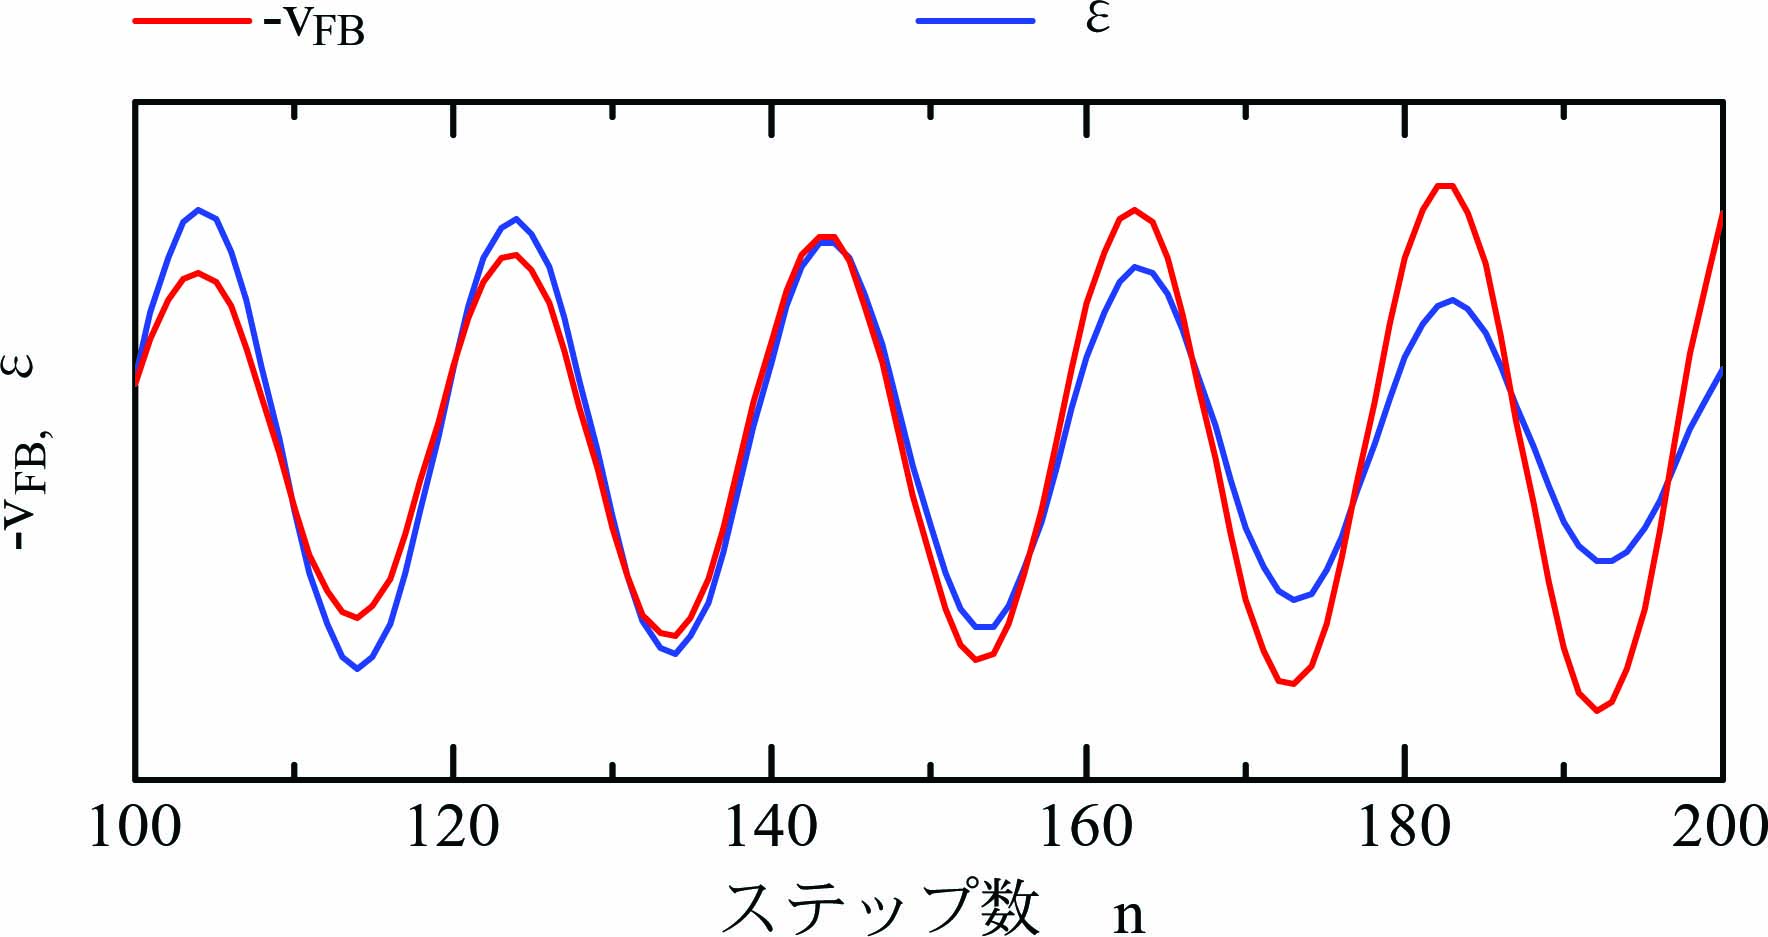
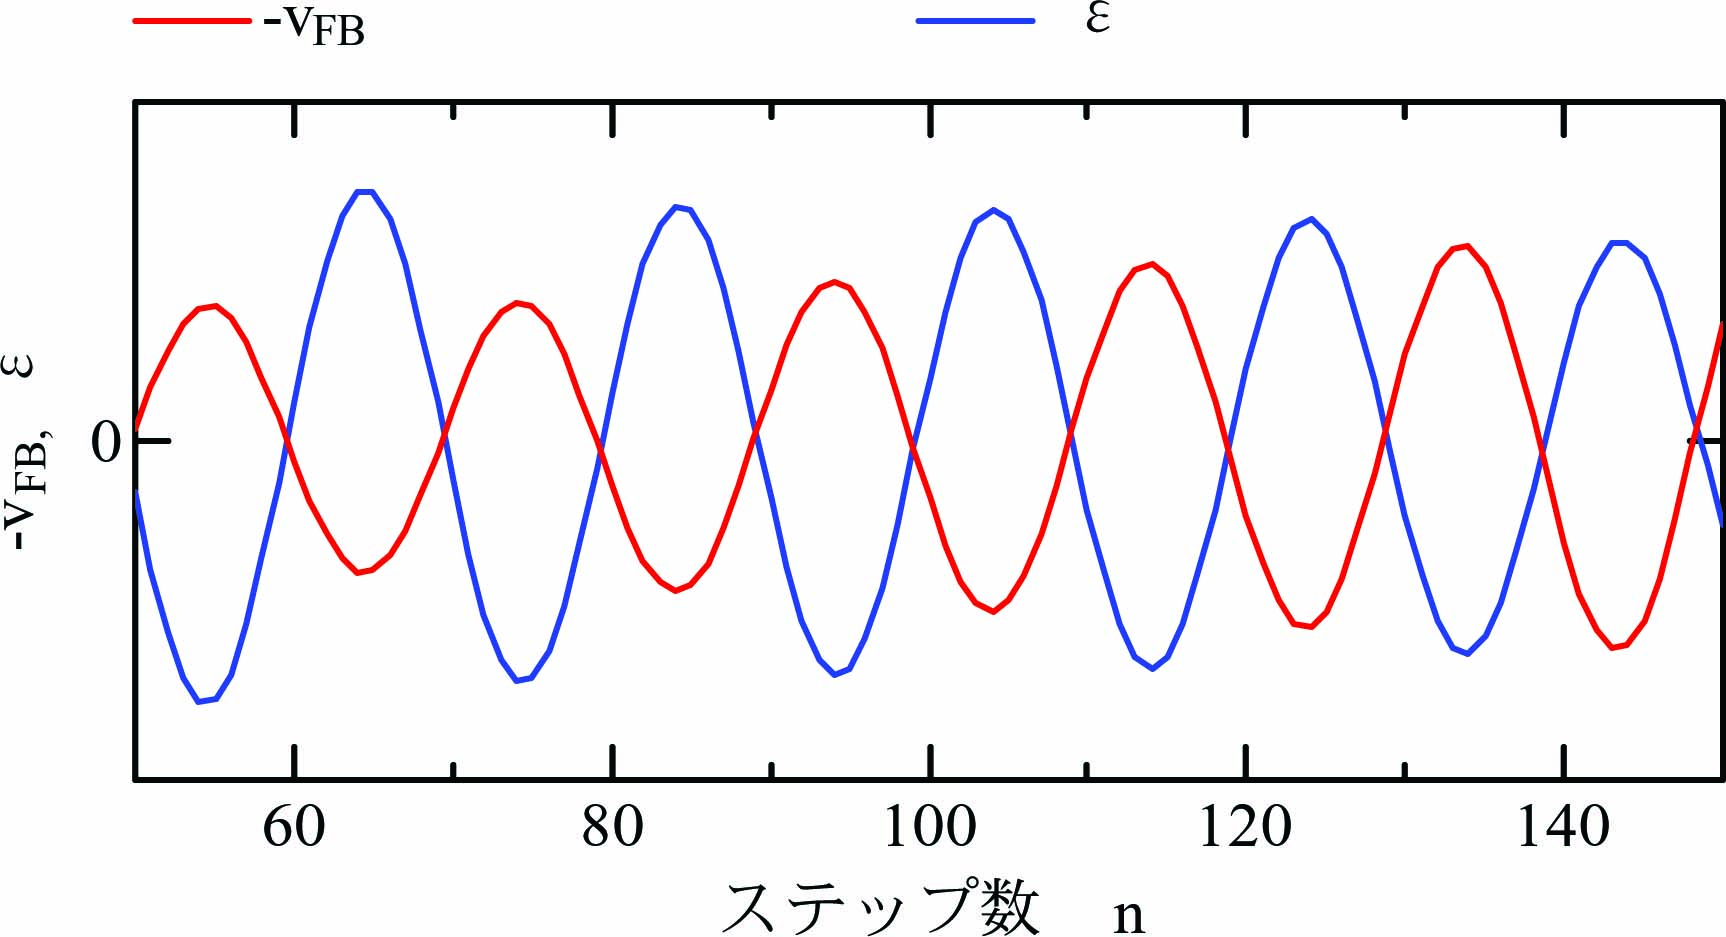
Add files via upload

diff --git a/index.html b/index.html
@@ -20,72 +20,87 @@
   <body>
     <h3>モデル規範適応制御の数値解析(適応制御則の動作メカニズム)</h3>
 
+    <h3>§モデル規範適応制御</h3>
     <p><a href="https://aoyamakohbo.github.io/AdaptContVib1D/">モデル規範適応制御の数値解析(数値実験)</a>
-      では超安定論から導いた適応制御則が有効に動作することを確認しています。
-      ここではどのようなメカニズムで適応制御が実現されるのかを確認します。</p>
+    では、下記の設定に対して数値実験を実施し、超安定論から導いた適応制御則が有効に動作することを確認しています。</p>
 
     <p>適応制御対象：</p>
     \begin{align}
     \ddot x + a\frac{\eta}{\hat\eta}\dot x + b\frac{\eta}{\hat\eta}(x - u) = 0 \label{eq:SysEqn2}
     \end{align}
-    <p> ここに、\(x_M\)は制御対象の変位です。係数\(a=25.12\)、\(b=3943\)です。</p>
+    <p> ここに、\(x_M\)は制御対象の変位です。係数\(a=25.12\)、\(b=3943\)、\(\hat{\eta}=1\)です。</p>
 
     <p>規範モデル：</p>
     \begin{align}
     \ddot x_M + a\dot x_M + b(x_M - u)= 0 \label{eq:MdlEqn}
     \end{align}
 
-    <p> ここに、\(x_M\)は規範モデルの変位です。</p>
+  <p> ここに、\(x_M\)は規範モデルの変位です。</p>
 
+  <h3>§適応制御則</h3>
+  <p>ここではどのようなメカニズムで適応制御が実現されるのかを確認します。適応制御則は次式で与えられます。</p>
+    \begin{align}
+      \dot{\hat{\eta}} = \alpha \frac{\{a \dot x + b (x - u)\}\varepsilon}{\hat\eta},~~~\varepsilon = e + c\dot e,~~~e = x_M - x,~~~c = \frac{2}{25.12}.\label{eq:AdaptRule0}
+    \end{align}
+  <p><a href="https://aoyamakohbo.github.io/AdaptContVib1D/">モデル規範適応制御の数値解析(数値実験)</a>
+    では、適応制御則\eqref{eq:AdaptRule0}により、\(\eta/\hat{\eta}=1\)に収束することを確認しています。</p>
+
+  <p>適応制御則の動作メカニズムを理解するために、</p>  
     \begin{align}
       v_{FB} = -a\dot x - b(x - u) \label{eq:vFB}
     \end{align}
 
-  <p>適応制御則：</p>
+  <p>とすると、適応制御則は次式となります。</p>
   \begin{align}
-   \dot{\hat{\eta}} = -\alpha \frac{v_{FB}}{\hat\eta}\varepsilon\label{eq:AdaptRule}
-  \end{align}
-
-  \begin{align}
-    \varepsilon = e + c\dot e,~~~e = x_M - x,~~~c = \frac{2}{25.12} . \label{eq:ExdEqn}
+   \dot{\hat{\eta}} = -\alpha \frac{v_{FB}}{\hat\eta}\varepsilon \label{eq:AdaptRule}
   \end{align}
  
-  <p>\(\eta=0.5.2.0\)の場合について\(v_{FB}\)と\(\varepsilon\)の動作を観察します。</p>
+  <h3>§数値実験結果</h3>
+ <p>ここでは、
+    適応制御対象\eqref{eq:SysEqn2}の\(\eta=0.5 (< \hat{\eta})\)と\(\eta=2.0 (> \hat{\eta})\)の場合について、
+    \(v_{FB}\)と\(\varepsilon\)の動作を観察します。</p>
 
-    <p>まず、下図は\(\eta=0.5\)の場合について\(-v_{FB}\)と\(\varepsilon\)を描画したグラフです。
+ <p>まず、下図は\(\eta=0.5\)の場合について\(-v_{FB}\)と\(\varepsilon\)を描画したグラフです。
+    振幅は比較できるように調整しています。\(-v_{FB}\)と\(\varepsilon\)の位相がほぼ反転していることを確認できます。</p>
+  <img src="v_FB_ε050.jpg" width=500px>
+    
+  <p>下図は\(-v_{FB}\)と\(\varepsilon\)の積\(-v_{FB}\varepsilon\)を描画したグラフです。
+      ただし、グラフには係数\(\alpha\)が掛けてあります。
+      \(-v_{FB}\)と\(\varepsilon\)の位相が反転しているので、
+      両者を掛け合わせた\(-v_{FB}\varepsilon\)はマイナスになります。
+      したがって、\(-v_{FB}\)\(\varepsilon\)のグラフはマイナス側(下側)にシフトしています。
+      すなわち、式\eqref{eq:AdaptRule}で表される\(\hat{\eta}\)の時間増分\(\dot{\hat{\eta}}\)は負(\(\dot{\hat{\eta}} < 0\))となっています。</p>    
+  <img src="v_FB×ε050.jpg" width=500px>
+    
+  <p>次に、下図は\(\eta=2.0\)の場合について\(-v_{FB}\)と\(\varepsilon\)を描画したグラフです。
       振幅は比較できるように調整しています。
       \(-v_{FB}\)と\(\varepsilon\)の位相がかなり揃っていることを確認できます。</p>
-    <img src="v_FB_ε050.jpg" width=500px>
-    
-    <p>下図は\(-v_{FB}\)と\(\varepsilon\)の積\(-v_{FB}\varepsilon\)を描画したグラフです。
+  <img src="v_FB_ε200.jpg" width=500px>
+
+  <p>下図は\(-v_{FB}\)と\(\varepsilon\)の積\(-v_{FB}\varepsilon\)を描画したグラフです。
       \(-v_{FB}\)と\(\varepsilon\)の位相が揃っているので、
-      \(-v_{FB}\varepsilon\)はマイナス側(下側)にシフトしています。
-      すなわち、式\eqref{eq:AdaptRule}で表される\(\eta\)の時間増分\(\dot{\hat{\eta}} < 0\)となっています。</p>    
-    <img src="v_FB×ε050.jpg" width=500px>
-    
-     <p>まず、下図は\(\eta=2.0\)の場合について\(-v_{FB}\)と\(\varepsilon\)を描画したグラフです。
-      振幅は比較できるように調整しています。
-      \(-v_{FB}\)と\(\varepsilon\)の位相がかなりずれていることを確認できます。</p>
-    <img src="v_FB_ε200.jpg" width=500px>
+      両者を掛け合わせた\(-v_{FB}\varepsilon\)はプラスになります。
+      したがって、\(-v_{FB}\varepsilon\)はプラス側(上側)にシフトしています。
+      すなわち、式\eqref{eq:AdaptRule}で表される\(\hat{\eta}\)の時間増分\(\dot{\hat{\eta}}\)は正(\(\dot{\hat{\eta}} > 0\))となっています。</p>       
+  <img src="v_FB×ε200.jpg" width=500px>
 
-     <p>下図は\(-v_{FB}\)と\(\varepsilon\)の積\(-v_{FB}\varepsilon\)を描画したグラフです。
-      \(-v_{FB}\)と\(\varepsilon\)の位相がずれているので、
-      \(-v_{FB}\varepsilon\)はプラス側(上側)にシフトしています。
-      すなわち、式\eqref{eq:AdaptRule}で表される\(\eta\)の時間増分\(\dot{\hat{\eta}} > 0\)となっています。</p>       
-    <img src="v_FB×ε200.jpg" width=500px>
+  <p>下図は\(\eta=0.5(< \hat{\eta})\)と\(\eta=2.0(> \hat{\eta})\)の場合について積\(-v_{FB}\varepsilon\)を描画したグラフです。</p>
+  <p>\(\eta=0.5\)(赤線)では\(-v_{FB}\varepsilon < 0\)(負)となり、
+      \(\hat{\eta}\)の時間増分\(\dot{\hat{\eta}} < 0\)(負)となるので\(\hat{\eta}\)は減少します。</p>
+   <p>\(\eta=2.0\)(青線)では\(-v_{FB}\varepsilon >0\)(正)となり、
+      \(\hat{\eta}\)の時間増分\(\dot{\hat{\eta}} > 0\)(正)となるので\(\hat{\eta}\)は増加します。</p>
+  <img src="v_FB_ε200_050.jpg" width=500px>
 
-     <p>下図は\(\eta=0.5\)と\(\eta=2.0\)の場合について積\(-v_{FB}\varepsilon\)を描画したグラフです。
-      \(\eta=0.5\)では\(-v_{FB}\varepsilon < 0\)となり、\(\eta\)の時間増分\(\dot \eta < 0\)、\(\eta=2.0\)では\(-v_{FB}\varepsilon >0\)
-      、\(\eta\)の時間増分\(\dot \eta > 0\)となっていることを確認できます。</p>
-    <img src="v_FB_ε200_050.jpg" width=500px>
+  <p>\(\hat{\eta} > \eta\)の場合は\(\dot{\hat{\eta}}\)は負となり、
+      適応制御則\eqref{eq:AdaptRule}は\(\hat\eta\)を減少させるように動作して\(-v_{FB}\varepsilon\)、
+      すなわち、\(\dot{\hat{\eta}}\)は\(0\)に収束しています。</p>
+  <p>\(\hat \eta < \eta\)の場合は\(\dot{\hat \eta}\)は正となり、
+      適応制御則\eqref{eq:AdaptRule}は\(\hat\eta\)を増加させるように動作して\(-v_{FB}\varepsilon\)、
+      すなわち、\(\dot{\hat{\eta}}\)は\(0\)に収束しています。</p>
+  <p>以上のことから、適応制御則\eqref{eq:AdaptRule}は\(\hat\eta\)に対してネガティブフィードバックとして動作し、
+    \(\eta/\hat{\eta}=1\)に収束します。</p>
 
-    <p>\(\hat{\eta} > \eta\)の場合は\(\dot{\hat{\eta}}\)は負となり、
-      適応制御則\eqref{eq:AdaptRule}は\(\hat\eta\)を減少させるように動作します。
-      逆に\(\hat \eta < \eta\)の場合は\(\dot{\hat \eta}\)は正となり、
-      適応制御則\eqref{eq:AdaptRule}は\(\hat\eta\)を増加させるように動作します。
-      すなわち、適応制御則は\(\hat\eta\)の増減に対してネガティブフィードバックとして作用します。</p>
-
-   <p><a href="https://aoyamakohbo.github.io/Craftlogy/">->TOP</a></p>
+  <p><a href="https://aoyamakohbo.github.io/Craftlogy/">->TOP</a></p>
 </body>
 
 </html>
